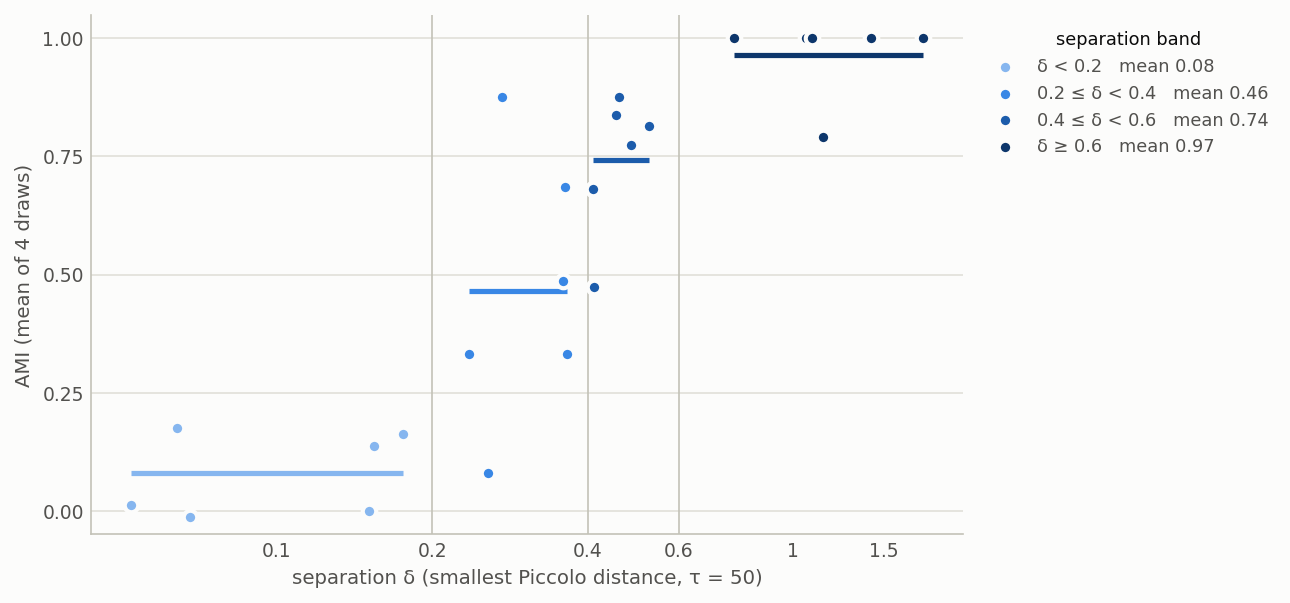
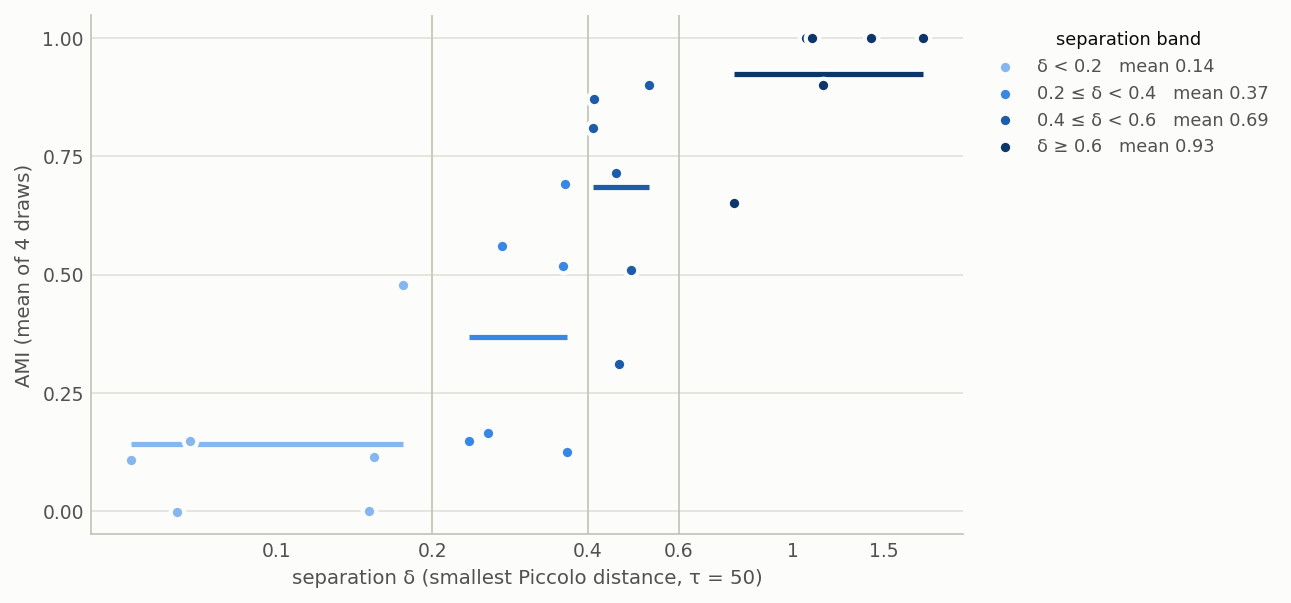
docs(examples): recompute the figures with the seeded, burnt-in generators
The new draws move a few quoted numbers: the middle sets are now clustered
perfectly from T = 400 and T = 800, the δ < 0.2 set reaches 0.48 at T = 1600,
and every estimated distance is within 0.01 of δ at T = 1600, so the old
explanation of a low δ < 0.2 estimate no longer applies.

diff --git a/examples/distance_estimation.py b/examples/distance_estimation.py
@@ -1,8 +1,8 @@
 """
 The Piccolo distance between two fitted models against series length, for the closest pair of each curated set
 (``figures/estimated_distance.png``). The spread of the estimates shrinks as the series grow and their mean
-approaches the true distance δ. At these lengths BIC still often picks lower orders than the true ones, most for
-the closest set, where an AR(1) fits both the ARMA(1,1) and the MA(1) process well; that pulls its estimate below δ.
+approaches the true distance δ. On short series BIC often picks lower orders than the true ones, so the estimates
+can be off either way.
 
 The estimates are saved to ``figures/distance_estimation.npz`` and later runs plot from them; ``--recompute`` fits
 again.
